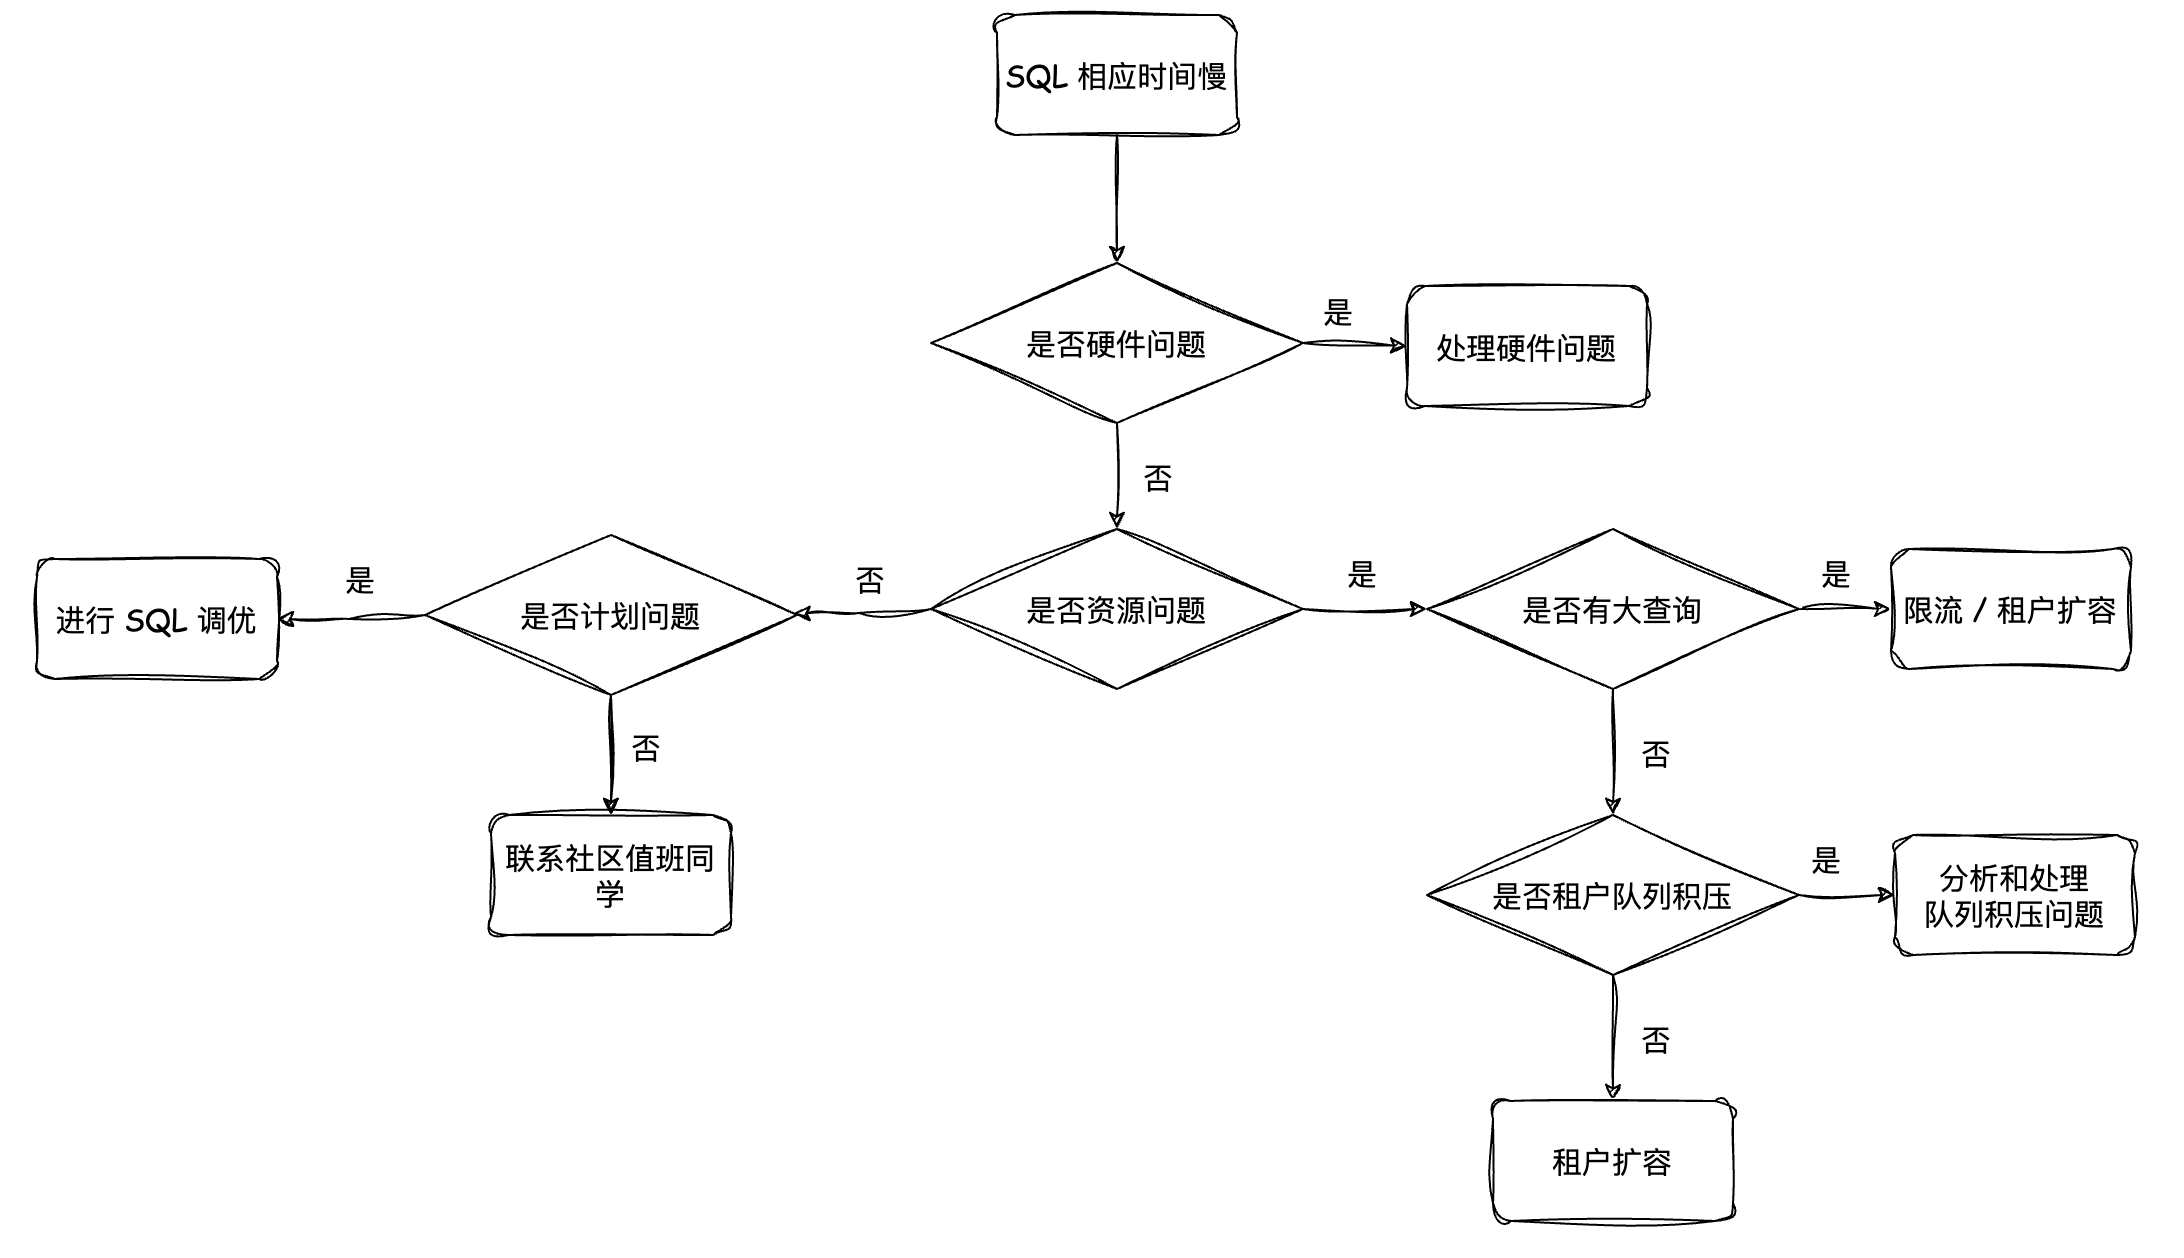
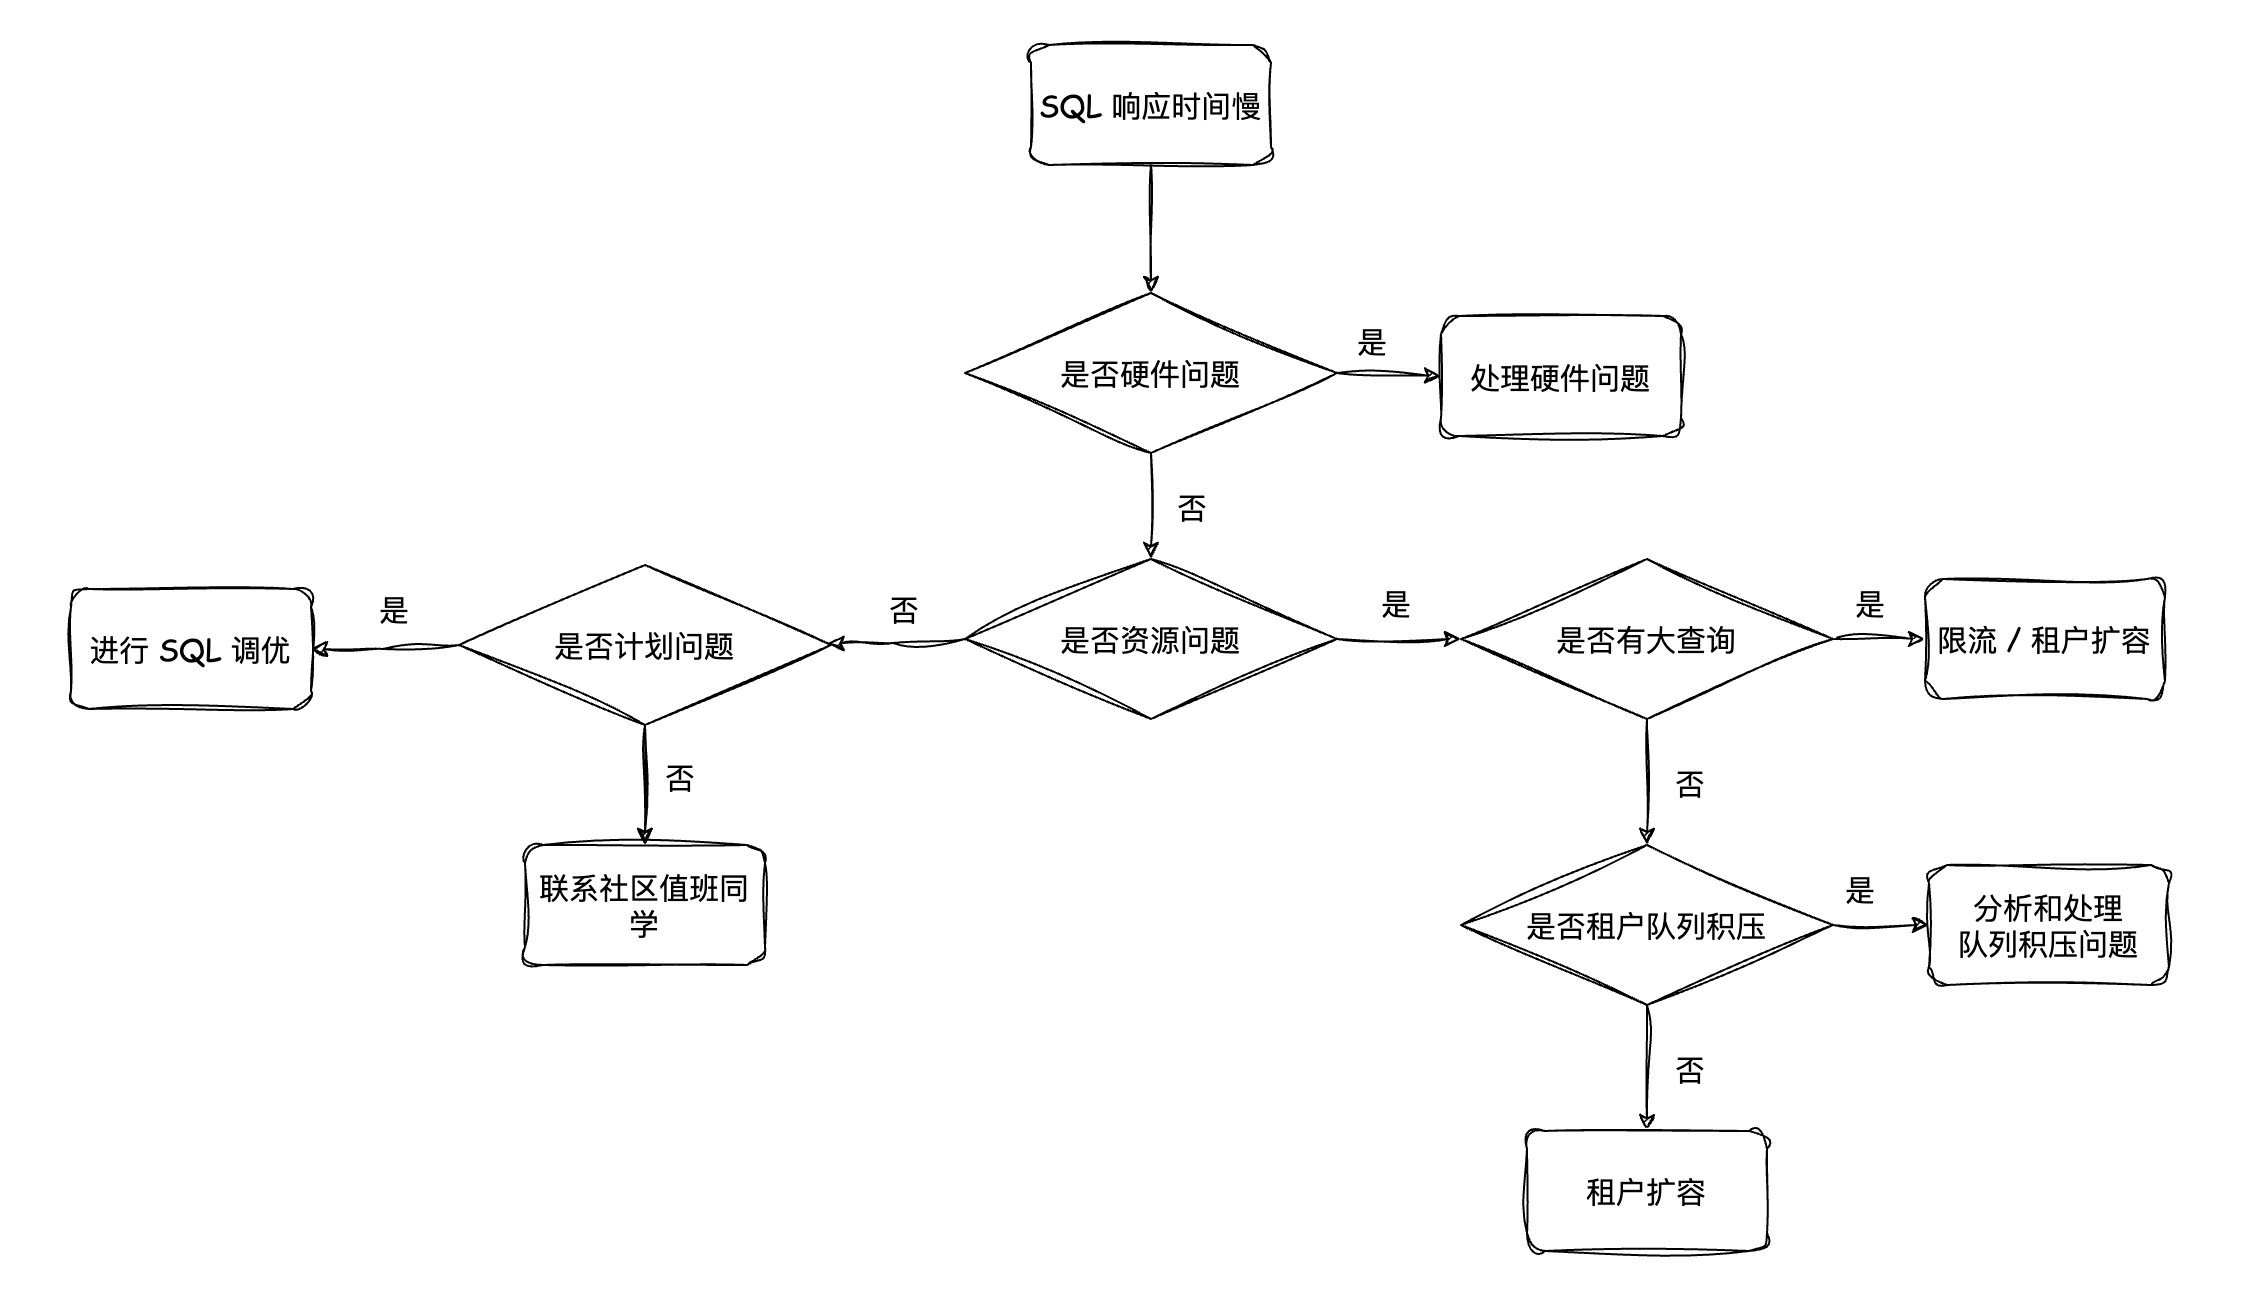
在进阶教程中的故障应急手册里添加《CPU 负载过高》小节

diff --git a/docs/user_manual/operation_and_maintenance/emergency_handbook/03_cpu_high.md b/docs/user_manual/operation_and_maintenance/emergency_handbook/03_cpu_high.md
@@ -1,0 +1,58 @@
+---
+title: CPU 负载过高
+weight: 3
+---
+
+## 业务及数据库表现
+
+业务表现：业务出现偶发卡顿，接口调用失败率上升。
+
+数据库表现：收到 CPU 使用率高的告警，SQL 响应延迟突然变高，监控中 CPU 使用率飙升.
+
+## 排查方向和流程
+
+![image](/img/user_manual/operation_and_maintenance/emergency_handbook/03_cpu_high/001.png)
+
+
+### 排查节点上是否有 CPU 使用率高的进程
+
+通过 ps 或者 top 命令，确认节点上 CPU 使用率高的进程是否是 observer 进程。
+```
+ps -eo pid,user,%cpu,cmd --sort=-%cpu
+PID     USER     %CPU   CMD
+124648  user_a   99.9   other_process
+1332    user_b   50.5   observer
+```
+如果是其他 user 在节点上开了其他 CPU 占用较高的进程，需要联系相关 user 进行调整。
+
+
+### 排查 OBServer 中的可疑线程
+
+如果 CPU 占用高的进程只有 observer，先通过 top -H 看下是否是租户工作线程占用的
+
+```
+top -p `pidof observer` -H
+```
+
+#### 如果是工作线程的 CPU 占用大
+
+**<font color="red">对于 99% 的场景，我们只需要关心普通线程（即租户工作线程，而非后台线程），即 TNT_L0_G0_1001（3.1 版本） 或 T1001_L0_G0（4.x 版本）。</font>**
+
+> By the way：这里多解释一句，4.x 给工作线程改名，是因为 3.1 版本太容易 grep 错。比如想 grep TNT_L0_G0_1 的时候，很容易 grep 出一大堆 TNT_L0_G0_1001 之类的线程。
+
+例如有某个租户执行的 SQL 占用了超多 CPU，导致其他租户受影响了，可以直接通过 top -H 结果中的 T1002_L0_G100 看出具体是哪个租户在整幺蛾子。
+
+![image](/img/user_manual/operation_and_maintenance/emergency_handbook/03_cpu_high/002.png)
+
+比如下面的示例就可以通过 T1002_L0_xxxx 看出来是 1002 号租户在犯坏。
+
+
+然后就可以去 OCP 上去看看这个 1002 号租户在执行什么把 CPU 吃完的 SQL 了。这里就又回到了上一小节的内容，分析下为啥这条 SQL 这么慢了。
+
+![image](/img/user_manual/operation_and_maintenance/emergency_handbook/03_cpu_high/003.png)
+
+
+
+#### 如果是后台线程的 CPU 占用大
+
+如果 top -H 看到占用 CPU 的是 T1_HBService、RootBalance、IO_GETEVENT0 这类看不懂的线程 CPU 占用高，建议去社区论坛发帖，联系在论坛中值班的技术支持同学，让他们协助你留下 obstack 或者 pstack 的堆栈信息，进一步分析原因。

diff --git a/docs/user_manual/operation_and_maintenance/emergency_handbook/01_emergency_overview.md b/docs/user_manual/operation_and_maintenance/emergency_handbook/01_emergency_overview.md
@@ -13,39 +13,37 @@ weight: 1
 
 在《故障应急手册》中，会把用户在使用 OceanBase 的过程中可能遇到的问题，以及对应的解决方案进行汇总，目录大致会是：
 
-* 1 系统响应时间不符合预期
+* 系统响应时间不符合预期
 
-* 2 SQL 执行报错
+* CPU 负载异常
 
-* 3 CPU 负载异常
+* 节点宕机
 
-* 4 节点宕机
+* 生产库故障切容灾库
 
-* 5 生产库故障切容灾库
+* 硬件 & 基础环境故障应急处理
 
-* 6 硬件 & 基础环境故障应急处理
+* 负载变化导致的问题
 
-* 7 负载变化导致的问题
+* 集群内部其他问题
 
-* 8 集群内部其他问题
+  * 租户转储阻塞
 
-  * 8.1 租户转储阻塞
+  * 集群合并阻塞
 
-  * 8.2 集群合并阻塞
+  * SYS 租户/ RS 服务问题
 
-  * 8.3 SYS 租户/ RS 服务问题
+  * 磁盘泄漏
 
-  * 8.4 磁盘泄漏
+  * 内存泄漏
 
-  * 8.5 内存泄漏
+  * 长事务
 
-  * 8.6 长事务
+  * 悬挂事务
 
-  * 8.7 悬挂事务
+  * coredump
 
-  * 8.8 coredump
-
-  * 8.9 无主
+  * 无主
 
 * 未完待续……
 
@@ -66,3 +64,10 @@ weight: 1
 - 如果轮流重启之后还有问题，那就进行 failover 操作，切换备集群。
 
 - 分析问题永远放在止血和恢复之后。
+
+
+## 参考资料
+
+- 社区博客[《OceanBase 应急三板斧》](https://open.oceanbase.com/blog/13250502949)
+
+- 官网文档中的[应急处理相关内容](https://www.oceanbase.com/docs/common-oceanbase-database-cn-1000000001573632)
